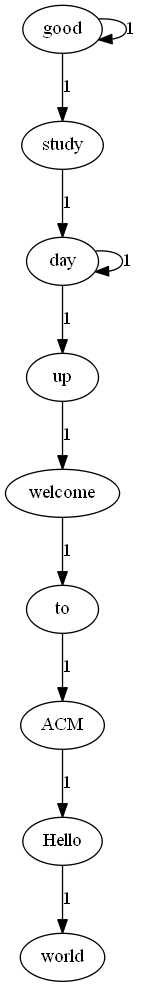
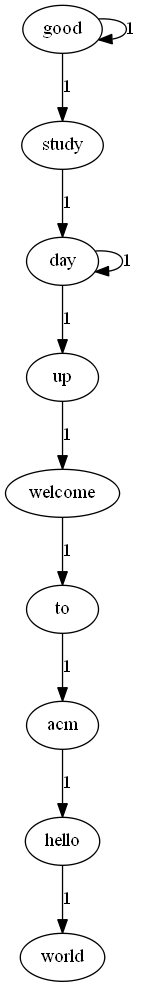
lowletter

diff --git a/src/MyFile.java b/src/MyFile.java
@@ -50,7 +50,7 @@ public class MyFile {
 	         }
 		}
 		for (int i = 1 ; i < node.size() ; i++){
-			edge.add( node.get( i-1 ) +" "+ node.get( i ));
+			edge.add( node.get( i-1 ).toLowerCase() +" "+ node.get( i ).toLowerCase());
 		}
 		edge.sort(null);
 		int cnt = 1;
